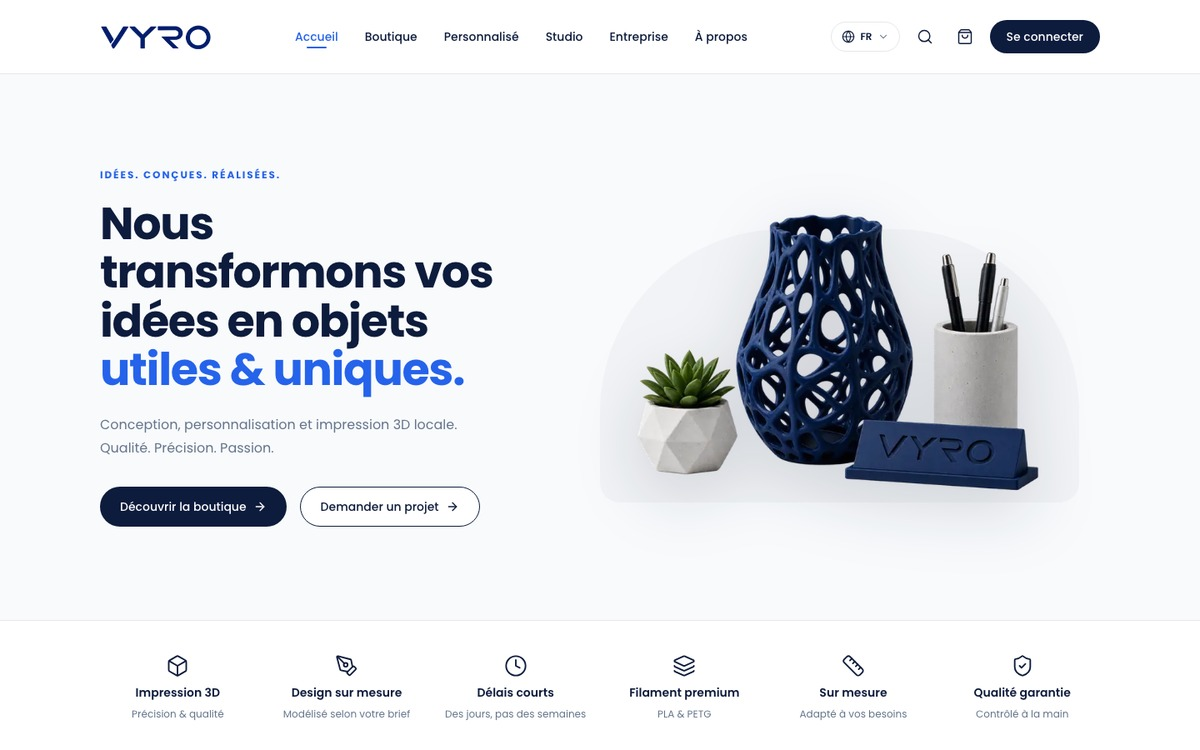
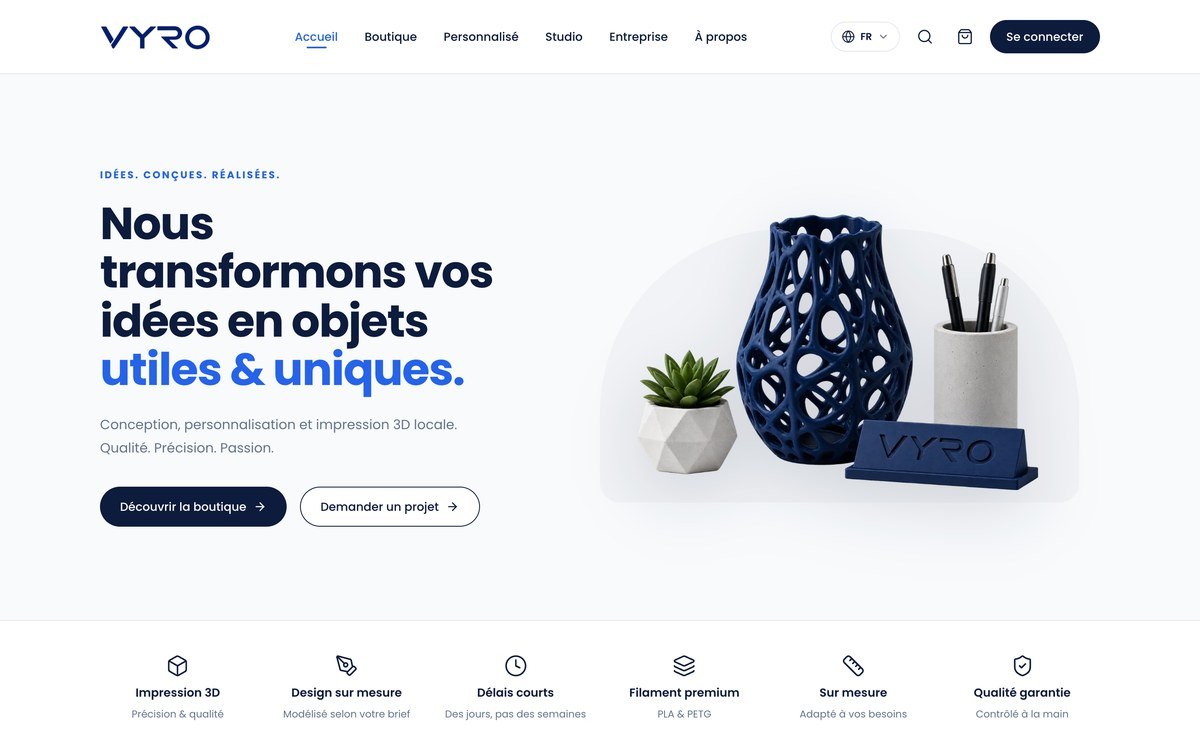
feat: retake live screenshots with 6s settle delay, clean assets, and optimize build

diff --git a/src/content.config.ts b/src/content.config.ts
@@ -1,68 +1,3 @@
-import { defineCollection, z } from 'astro:content';
-import { glob } from 'astro/loaders';
-
-const projects = defineCollection({
-  loader: glob({ pattern: '**/*.{md,mdx}', base: './src/content/projects' }),
-  schema: z.object({
-    title: z.string(),
-    summary: z.string(),
-    year: z.union([z.number(), z.string()]),
-    role: z.string(),
-    type: z.enum(['web', 'ai', 'client', 'platform']),
-    featured: z.boolean().default(false),
-    order: z.number().default(99),
-    cover: z.string().optional(),
-    gallery: z.array(z.string()).optional(),
-    liveUrl: z.string().url().optional(),
-    repoUrl: z.string().url().optional(),
-    stack: z.array(z.string()),
-    bullets: z.array(z.string()).max(5),
-    status: z.enum(['live', 'archived', 'confidential']),
-  }),
-});
-
-const experience = defineCollection({
-  loader: glob({ pattern: '**/*.{md,mdx}', base: './src/content/experience' }),
-  schema: z.object({
-    company: z.string(),
-    role: z.string(),
-    start: z.string(),
-    end: z.union([z.string(), z.literal('present')]),
-    location: z.string(),
-    type: z.string(),
-    summary: z.string(),
-    highlights: z.array(z.string()),
-    stack: z.array(z.string()),
-    order: z.number().default(99),
-    logo: z.string().optional(),
-  }),
-});
-
-const teaching = defineCollection({
-  loader: glob({ pattern: '**/*.{md,mdx}', base: './src/content/teaching' }),
-  schema: z.object({
-    title: z.string(),
-    org: z.string(),
-    date: z.string(),
-    format: z.string(),
-    audience: z.string(),
-    summary: z.string(),
-    outcomes: z.array(z.string()),
-    link: z.string().url().optional(),
-    order: z.number().default(99),
-  }),
-});
-
-const posts = defineCollection({
-  loader: glob({ pattern: '**/*.{md,mdx}', base: './src/content/posts' }),
-  schema: z.object({
-    title: z.string(),
-    date: z.string(),
-    description: z.string(),
-    tags: z.array(z.string()),
-    cover: z.string().optional(),
-    draft: z.boolean().default(false),
-  }),
-});
-
-export const collections = { projects, experience, teaching, posts };
+// Content collections definition
+// Collections can be enabled when markdown/MDX articles are added to src/content/
+export const collections = {};

diff --git a/src/components/islands/CopyEmailButton.tsx b/src/components/islands/CopyEmailButton.tsx
@@ -13,18 +13,18 @@ export function CopyEmailButton({
 
   const handleCopy = async () => {
     try {
-      if (navigator.clipboard && navigator.clipboard.writeText) {
+      if (navigator.clipboard?.writeText) {
         await navigator.clipboard.writeText(email);
       } else {
-        // Fallback for older browsers
         const textarea = document.createElement('textarea');
         textarea.value = email;
         textarea.style.position = 'fixed';
         textarea.style.opacity = '0';
         document.body.appendChild(textarea);
-        textarea.focus();
         textarea.select();
-        document.execCommand('copy');
+        if (typeof document.execCommand === 'function') {
+          document.execCommand('copy');
+        }
         document.body.removeChild(textarea);
       }
       setCopied(true);

diff --git a/src/components/islands/ContactForm.tsx b/src/components/islands/ContactForm.tsx
@@ -22,7 +22,7 @@ export function ContactForm() {
     }
   }, []);
 
-  const handleSubmit = async (e: React.FormEvent<HTMLFormElement>) => {
+  const handleSubmit = async (e: React.SyntheticEvent<HTMLFormElement>) => {
     e.preventDefault();
     if (formData._gotcha) {
       // Honeypot caught spam bot
